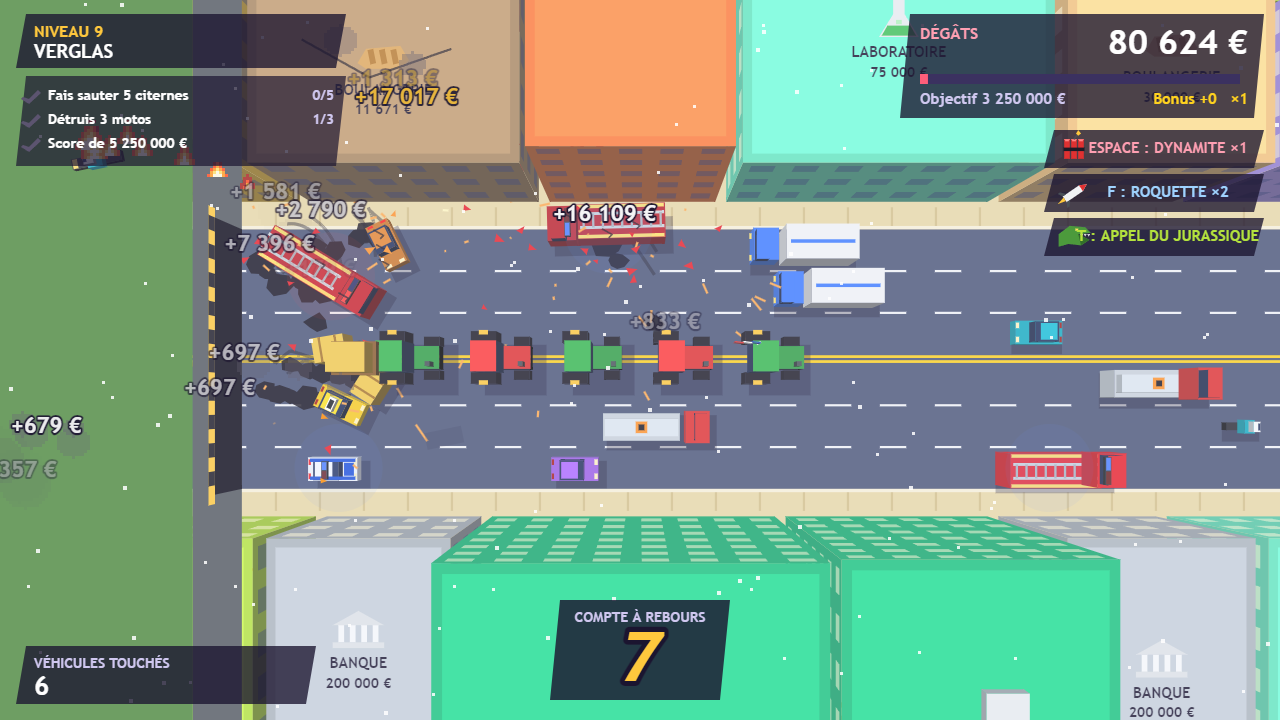
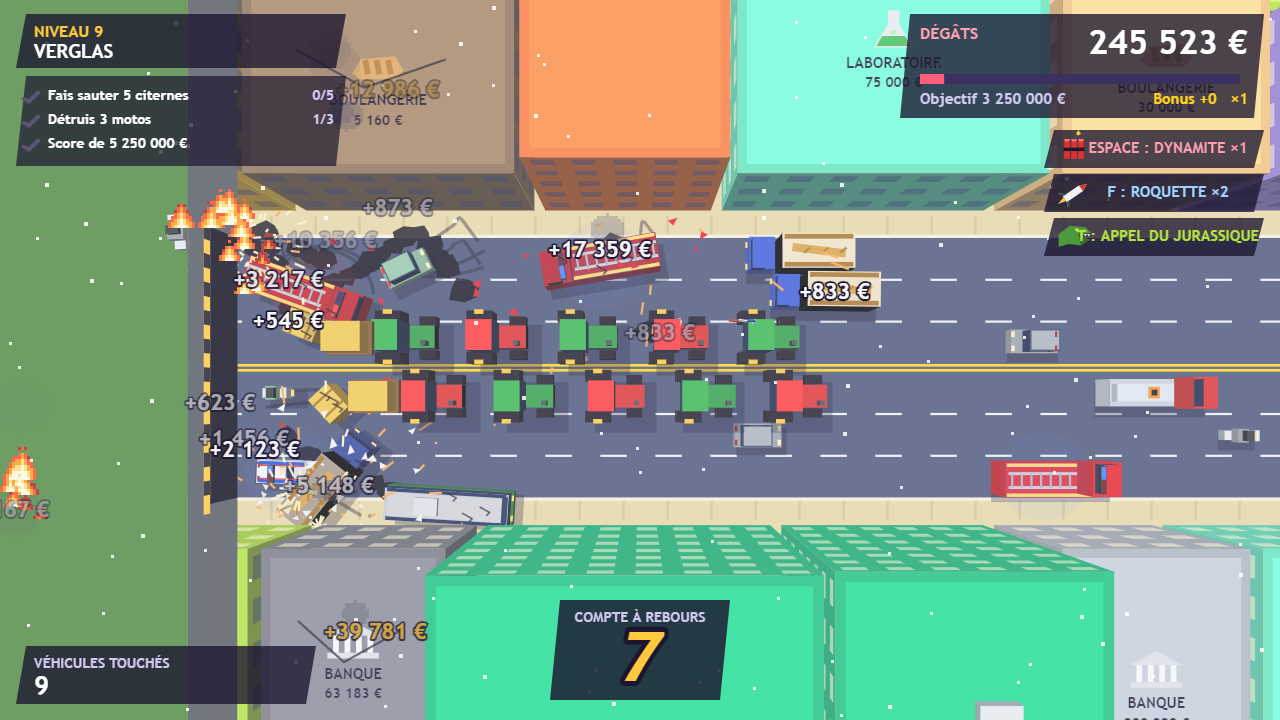
feat: the farmers' convoy drives in two rows side by side; the T-Rex steps over it
Two rows of five tractors (farmers_rows, farmers_row_gap), a little out of step, each
row's last tractor towing hay; the convoy shoves everything across both rows. When the
T-Rex and the convoy meet they still cross, and the T-Rex, far taller, is now drawn
over the tractors.

Evidence: qa/evidence/fr-farmers.png, qa/evidence/fr-farmers-trex.png

diff --git a/src/main.ts b/src/main.ts
@@ -1165,16 +1165,17 @@ function drawTrex(tr: Loose) {
 // Unlike the T-Rex, it leaves the buildings and the cranes alone.
 function honk() { tone(392, 0.22, 'square', 0.14); tone(330, 0.3, 'square', 0.14, 0.22); }
 function stepFarmers(fm: Loose, dt: number) {
-  const st = state, n = tune.farmers_count, gap = tune.farmers_gap, hl = tune.farmers_len / 2, hw = tune.farmers_width / 2;
+  const st = state, n = tune.farmers_count, gap = tune.farmers_gap, hl = tune.farmers_len / 2;
+  const rows = farmerRows(fm), hw = tune.farmers_width / 2 + (tune.farmers_rows - 1) * tune.farmers_row_gap / 2; // the whole convoy's half width
   fm.t += dt; fm.x += tune.farmers_speed * dt; // fm.x is the lead tractor; the others follow at gap
   const tail = fm.x - (n - 1) * gap;
   if (tail > EXT + tune.tunnel_depth + 200) { st.farmers = null; return; }
   fm.hornT -= dt; if (fm.hornT <= 0) { fm.hornT = 1.1; honk(); }
-  // the last tractor's trailer drops a hay bale now and then
+  // the last tractors' trailers drop a hay bale now and then, one row then the other
   fm.hayT -= dt;
   if (fm.hayT <= 0 && fm.hay < tune.farmers_bales && tail > -EXT) {
     fm.hayT = tune.farmers_bale_every; fm.hay++;
-    const b = mkBody('hay', tail - hl - 24, fm.y + (rng() - 0.5) * 16, rng() * Math.PI, '#f2c94c');
+    const b = mkBody('hay', tail - hl - 24, rows[fm.hay % rows.length] + (rng() - 0.5) * 16, rng() * Math.PI, '#f2c94c');
     b.ai = false; b.loose = true; b.inv = true; b.touched = true; b.id = st.nextId++;
     b.vx = tune.farmers_speed * 0.4; b.vy = (rng() < 0.5 ? -1 : 1) * (60 + rng() * 140); b.w = (rng() - 0.5) * 8; b.vz = 80;
     st.bodies.push(b);
@@ -1211,18 +1212,24 @@ function drawTractor(x: number, y: number, col: string, lead: boolean, t: number
     for (const [i, c] of [[0, '#1f4fbf'], [1, '#f8f9fa'], [2, '#e03131']] as Loose) prism([[x - 20 - i * 7, y - 10], [x - 27 - i * 7, y - 10 + wave * 0.3], [x - 27 - i * 7, y - 9 + wave * 0.3], [x - 20 - i * 7, y - 9]], 52 + hop, 62 + hop, c, c);
   }
 }
+/** The y of each row of tractors, side by side across the boulevard's middle. */
+function farmerRows(fm: Loose): number[] {
+  const n = tune.farmers_rows, out: number[] = [];
+  for (let r = 0; r < n; r++) out.push(fm.y + (r - (n - 1) / 2) * tune.farmers_row_gap);
+  return out;
+}
 function drawFarmers(fm: Loose) {
   const n = tune.farmers_count;
-  for (let i = n - 1; i >= 0; i--) {
-    const x = fm.x - i * tune.farmers_gap;
+  farmerRows(fm).forEach((y: number, r: number) => { for (let i = n - 1; i >= 0; i--) { // the far row first
+    const x = fm.x - i * tune.farmers_gap + (r % 2) * tune.farmers_gap * 0.3; // the rows a little out of step
     if (x < -EXT - tune.tunnel_depth - 80 || x > EXT + tune.tunnel_depth + 80) continue;
-    drawTractor(x, fm.y, i % 2 ? '#e03131' : '#2f9e44', i === 0, fm.t);
-    if (i === n - 1) { // the last one tows the hay
-      const hx = x - tune.farmers_len / 2 - 26, tb: Loose = { x: hx, y: fm.y, a: 0 };
+    drawTractor(x, y, (i + r) % 2 ? '#e03131' : '#2f9e44', i === 0 && r === 0, fm.t + r);
+    if (i === n - 1) { // the last one of each row tows the hay
+      const hx = x - tune.farmers_len / 2 - 26, tb: Loose = { x: hx, y, a: 0 };
       prism(rect(tb, 0, 0, 40, 30), 6, 12, '#8a5a2b', '#6b4420');
       if (fm.hay < tune.farmers_bales) prism(rect(tb, 0, 0, 34, 26), 12, 30, '#f2c94c', '#c99a2e');
     }
-  }
+  } });
 }
 function farmersIcon(x: number, y: number, k: number) { // a tractor in profile
   ctx.save(); ctx.translate(x, y); ctx.scale(k, k);
@@ -1920,8 +1927,8 @@ function drawWorld() {
   air.sort((a: Loose, b: Loose) => a.z - b.z);
   for (const b of air) drawVehicle(b);
   for (const r of st.rockets || []) drawRocket(r);
-  if (st.trex) drawTrex(st.trex);
   if (st.farmers) drawFarmers(st.farmers);
+  if (st.trex) drawTrex(st.trex); // after the tractors: the T-Rex, far taller, steps over them
   drawParts(true);
   if (NIGHT) { // the dark, then headlight beams added on top
     ctx.fillStyle = 'rgba(8,6,32,0.6)'; ctx.fillRect(0, 0, W, H);

diff --git a/data/config-notes.md b/data/config-notes.md
@@ -210,7 +210,8 @@ Old garage prices kept only to refund them: `nitro_cost`, `oilcan_cost`, `jump_c
 
 - `farmers_cost`: € in the garage (the sports car's price; x my_price_* for the others)
 - `farmers_speed`: px/s the convoy drives in from the left-hand tunnel
-- `farmers_count`, `farmers_gap`: tractors in the convoy, px between them
+- `farmers_count`, `farmers_gap`: tractors in each row, px between them
+- `farmers_rows`, `farmers_row_gap`: rows of tractors side by side, px between their middles
 - `farmers_len`, `farmers_width`: px each tractor's footprint (what it shoves)
 - `farmers_push`: px/s a vehicle is shoved sideways; `farmers_damage`: € a second to a vehicle in its path
 - `farmers_bales`, `farmers_bale_every`: hay bales the last tractor drops, s between them
